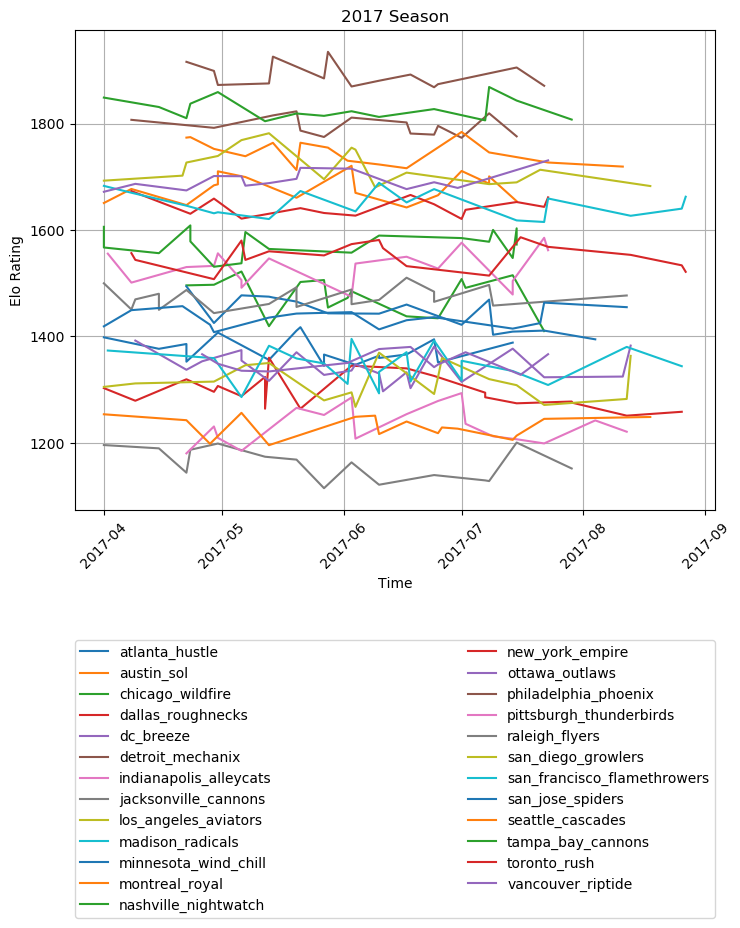
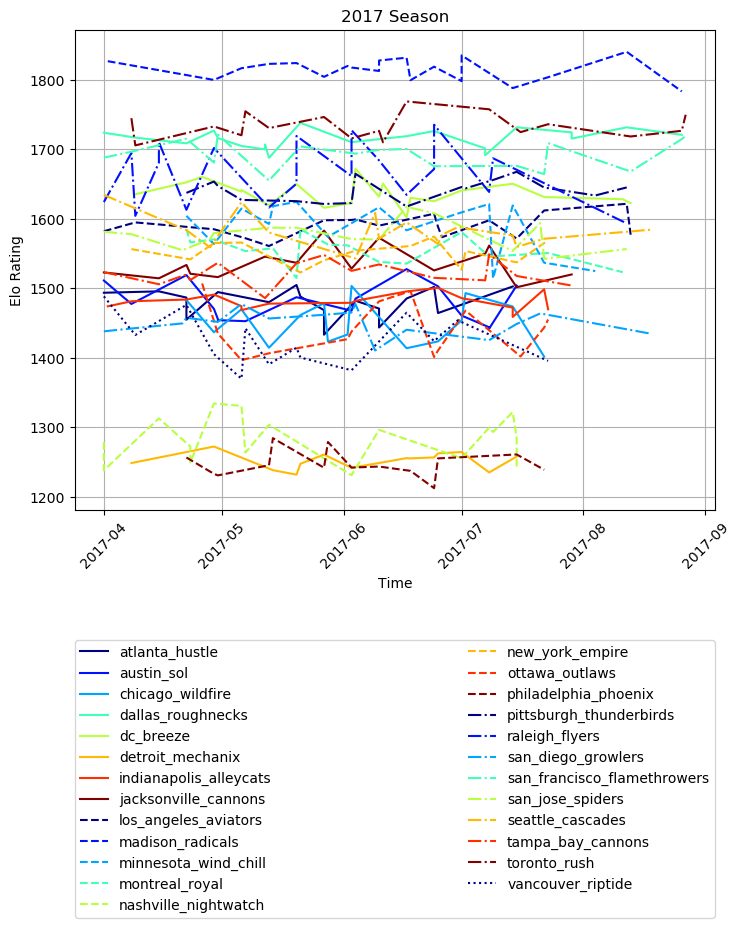
Trying to clean up the plots some. They're still a mess, but at least the lines are unique now

diff --git a/code/elo_ranking.py b/code/elo_ranking.py
@@ -2,7 +2,9 @@
 
 import pandas as pd
 import numpy as np
+import numpy.matlib
 import matplotlib.pyplot as plt
+import math
 import os
 import operator
 
@@ -19,15 +21,15 @@ def main():
     for idx in range(len(df)):
         team1 = df.loc[idx]['Name'];
         team2 = df.loc[idx]['Opponent'];
-        new_score1, new_score2 = get_elo(team_data[team1][-1], team_data[team2][-1], 0);
+        new_score1, new_score2 = get_elo(team_data[team1][-1], team_data[team2][-1], df.loc[idx]['Win']);
         team_data[team1].append((df.loc[idx]['Date'], new_score1));
         team_data[team2].append((df.loc[idx]['Date'], new_score2));
 
     # plot elo scores over time
     pd.plotting.register_matplotlib_converters();
     years = [2014, 2015, 2016, 2017, 2018, 2019];
-    fig1    = plt.figure();
-    fig2    = plt.figure();
+    fig1  = plt.figure();
+    fig2  = plt.figure();
 
     fig = {};
     axs = {};
@@ -38,6 +40,19 @@ def main():
         legends[year] = [];
     ax1 = fig1.add_axes([0,0,1,1]);
     ax2 = fig2.add_axes([0,0,1,1]);
+
+    # make a unique colormap
+    styles = ['-','--',':','-.'];
+    num_styles = len(styles);
+    num_lines = len(np.unique(df['Name']));
+    num_colors = math.ceil(num_lines/num_styles);
+    cmap = plt.cm.jet(np.matlib.repmat(np.linspace(0,1,num_colors),1,num_styles));
+    styles = np.matlib.repmat(styles,1,num_colors);
+
+    ax1.set_prop_cycle(plt.cycler('color',cmap[0]) + plt.cycler('linestyle',np.sort(styles[0])));
+    ax2.set_prop_cycle(plt.cycler('color',cmap[0]) + plt.cycler('linestyle',np.sort(styles[0])));
+    for year in years:
+        axs[year].set_prop_cycle(plt.cycler('color',cmap[0]) + plt.cycler('linestyle',np.sort(styles[0])));
 
     # break the list of tuples into dates and scores
     for name in np.unique(df['Name']):
@@ -58,6 +73,7 @@ def main():
                 indices = operator.itemgetter(indices);
                 axs[year].plot(indices(np.array(dates)), indices(np.array(scores)));
                 legends[year].append(name);
+
 
     # add legends, labels, make the plots prettier
     anchor_point = (0.,-0.85,1.,.102);
@@ -116,7 +132,8 @@ def get_elo(score1, score2, team1_win):
     eb = qb/(qa+qb);
 
     ra = score1[1] + 32*(team1_win - ea);
-    rb = score2[1] + 32*({"0":1, "1":0}[str(team1_win)] - eb);
+    #rb = score2[1] + 32*({"0":1, "1":0}[str(team1_win)] - eb);
+    rb = score2[1] + 32*(~team1_win + 2 - eb);
 
     return ra, rb;
 

diff --git a/code/logistic_regression_prediction.py b/code/logistic_regression_prediction.py
@@ -1,3 +1,5 @@
+#!/usr/bin/python
+
 import pandas as pd
 from sklearn.linear_model import LogisticRegression
 from sklearn.model_selection import train_test_split

diff --git a/code/linear_regression_prediction.py b/code/linear_regression_prediction.py
@@ -1,3 +1,4 @@
+#!/usr/bin/python
 import pandas as pd
 from sklearn.linear_model import LinearRegression
 from sklearn.model_selection import train_test_split

diff --git a/code/lasso_regression_prediction.py b/code/lasso_regression_prediction.py
@@ -1,3 +1,5 @@
+#!/usr/bin/python
+
 import pandas as pd
 from sklearn.linear_model import Lasso
 from sklearn.model_selection import train_test_split

diff --git a/code/support_vector_machine_prediction.py b/code/support_vector_machine_prediction.py
@@ -1,3 +1,5 @@
+#!/usr/bin/python
+
 import pandas as pd
 from sklearn.svm import SVC
 from sklearn.model_selection import train_test_split

diff --git a/code/xgboost_prediction.py b/code/xgboost_prediction.py
@@ -1,3 +1,5 @@
+#!/usr/bin/python
+
 import pandas as pd
 import matplotlib.pyplot as plt
 from xgboost import XGBClassifier

diff --git a/code/principal_component_analysis.py b/code/principal_component_analysis.py
@@ -1,3 +1,5 @@
+#!/usr/bin/python
+
 import pandas as pd
 import matplotlib as plt
 from sklearn.decomposition import PCA

diff --git a/code/parse_csv_data.py b/code/parse_csv_data.py
@@ -1,3 +1,5 @@
+#!/usr/bin/python
+
 import subprocess
 import csv
 import pandas as pd

diff --git a/code/clean_data.py b/code/clean_data.py
@@ -1,3 +1,5 @@
+#!/usr/bin/python
+
 import pandas as pd
 import numpy as np
 

diff --git a/README.md b/README.md
@@ -1,0 +1,56 @@
+# AUDL Analysis
+> Predicting Performance of American Ultimate Disc League Teams
+
+Inspired by the FiveThirtyEight model developed to rank and predict MLB teams,
+I wanted to develop a similar model that could be applied to ultimate teams,
+specifically teams in the AUDL. I found that
+[ultianalytics.com](www.ultianalytics.com) has recorded
+statistics on each team since the genesis of the league in 2014, so there was
+plenty of data for training and testing models.
+
+The FiveThirtyEight model uses a modified Elo algorithm (created to rank chess
+players)for rating teams and predicting winners. Their model incorporates
+additional features, such as home field advantage, distance the team travels,
+amount of rest, and the starting pitcher, to award and deduct additional points
+before each game. For example, their analysis suggests that home field
+advantage is worth 24 additional points. A complete explanation of their model
+is available at
+[fivethirtyeight.com/methodology/how-our-mlb-predictions-work](fivethirtyeight.com/methodology/how-our-mlb-predictions-work).
+
+## Gathering and Cleaning Data
+After writing bash scripts that used cURL to download all of the data from
+ultianalytics, I realized that many of the csv files referred to the same teams
+by slightly different names (new_york_empire vs ny_empire) which would make
+analysis difficult. I wrote a script to clean the data that resolved all of
+these naming issues. Additionally, I used pandas to create a dataframe capturing
+statistics not present in the raw data, such as average pull time, number of
+turnovers, drops, completion percentage, average throws per score, etc.
+
+## Developing Models to Predict a Winner
+
+## Creating an Elo Ranking System
+Elo Scores
+![alt text](https://github.com/tewidis/AUDL-Analysis/blob/master/plots/elo_scores.png
+"Elo Scores")
+
+Elo Scores Over Time
+![alt
+text](https://github.com/tewidis/AUDL-Analysis/blob/master/plots/elo_scores_over_time.png
+"Elo Scores Over Time")
+
+Plots of Elo scores for each season are also included in the plots folder of
+this repository.
+
+## Continued Efforts
+* Incorpoate mean reversion calculation after each season
+* Incorporate home team advantage adjustment
+* Calculate a predicted winner before each game and evaluate how often the
+  model is correct
+* Begin incorporating other features into the model
+
+## Conclusion
+Through this project, I became more familiar with using common data science
+libraries such as pandas, numpy, and scikit-learn for processing data and
+developing models. Additionally, I learned about some of the math behind the
+Elo algorithm and how the difference in rating between two opponents translates
+to a probability. This project
